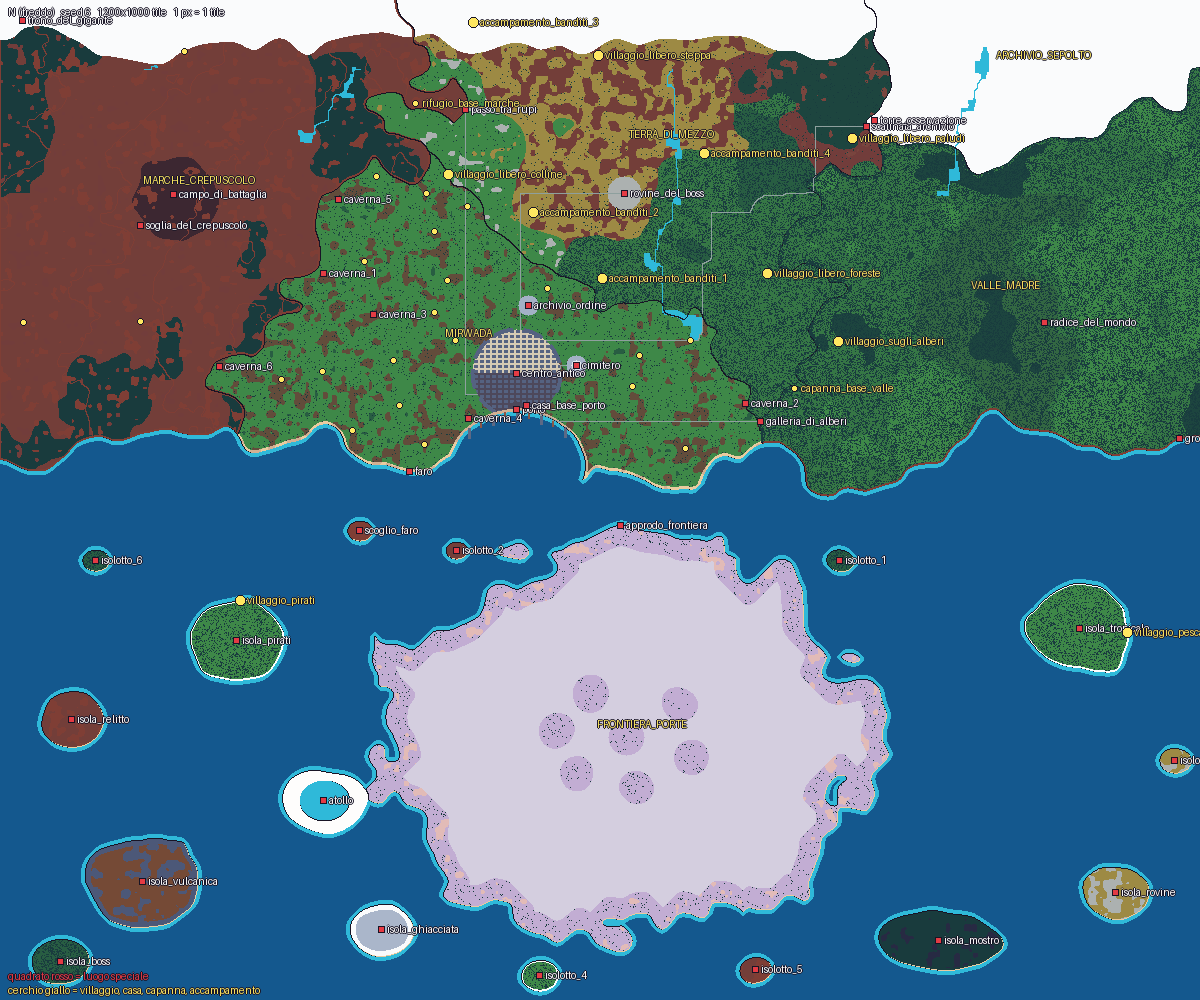
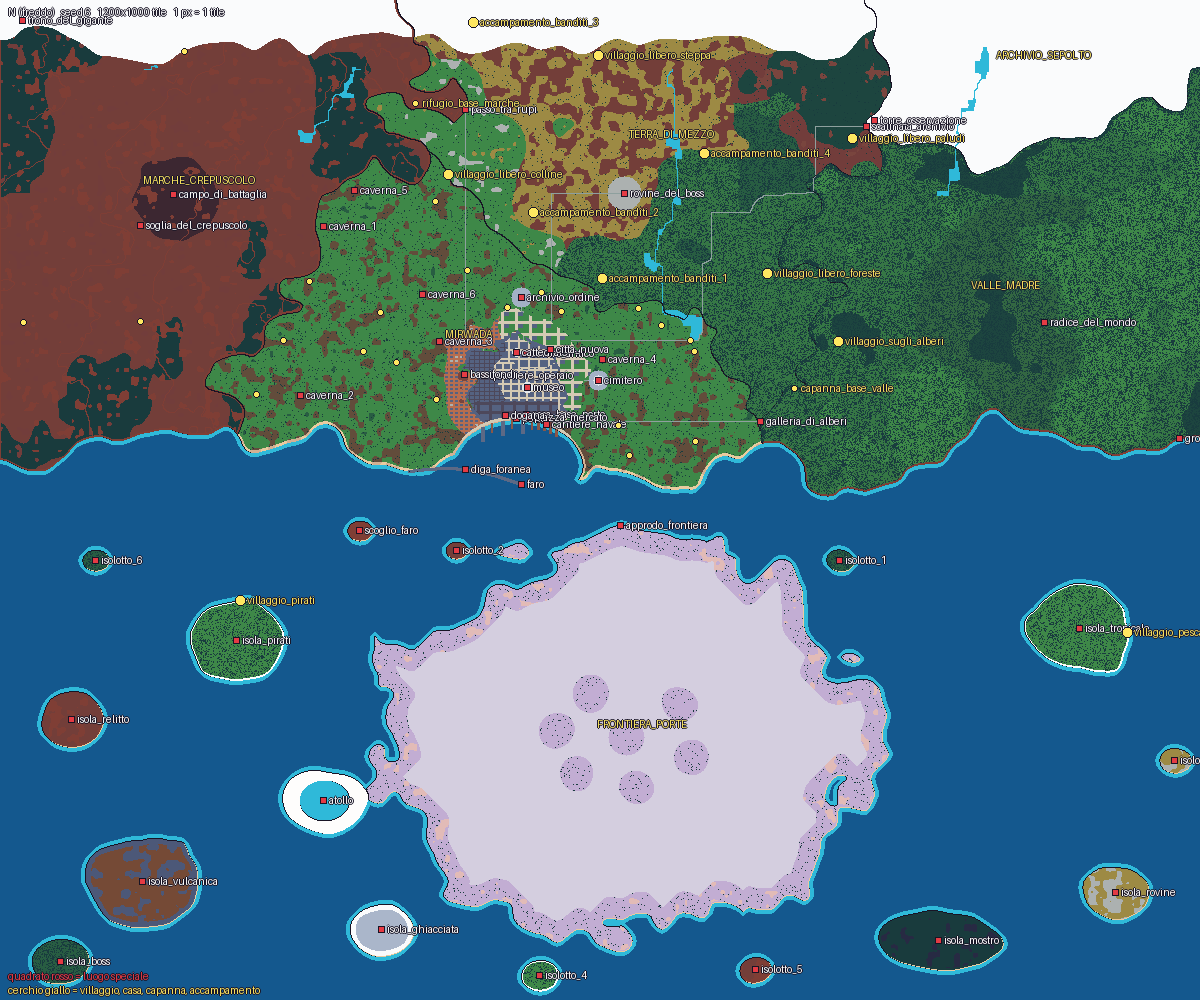
US-8B13b: Mirwada grande citta' portuale a quartieri + disposizione in layout_mondo.json
Claude-Session: https://claude.ai/code/session_014ycMSkFAn8ixUvbSfrqtAR

diff --git a/tools/art/build_world.py b/tools/art/build_world.py
@@ -45,25 +45,21 @@ W, H = 1200, 1000
 COSTA = 0.46                       # frazione di H dove finisce il continente
 HC = H * COSTA                     # altezza del continente
 K = 3.4                            # scala del paesaggio rispetto alla prima mappa di prova (320x220)
-KC = 2.0                           # scala della citta' (porto, mura, moli)
+KC = 2.0                           # scala di cimitero e monastero
 SCHERMATA = 20 * 11                # tile in una schermata a 64 px
 
 # Continente: centro di ogni zona in frazioni (x di W, y di HC). Ordine = indice nella mappa.
-TERRA = {"mirwada": (0.43, 0.80), "marche_crepuscolo": (0.15, 0.35), "archivio_sepolto": (0.85, 0.18),
-         "valle_madre": (0.87, 0.70), "terra_di_mezzo": (0.52, 0.42)}
-PESO = {"archivio_sepolto": 1.3, "terra_di_mezzo": 1.05, "marche_crepuscolo": 1.1}     # >1 zona piu' piccola, <1 piu' grande
-MEZZO = {"steppa": (0.50, 0.12), "colline": (0.34, 0.45), "foreste": (0.64, 0.60), "paludi": (0.71, 0.30)}
-# Isole: (id, cx, cy in frazioni di W e H, raggio in tile, profilo). Grandi, medie e piccole.
-ISOLE = [("frontiera_porte", 0.52, 0.74, 245, "frontiera"),
-         ("isola_vulcanica", 0.12, 0.88, 55, "vulcanica"), ("isola_tropicale", 0.90, 0.63, 52, "tropicale"),
-         ("isola_pirati", 0.20, 0.64, 48, "pirati"),
-         ("isola_relitto", 0.06, 0.72, 32, "relitto"), ("isola_rovine", 0.93, 0.89, 34, "rovine"),
-         ("isola_ghiacciata", 0.32, 0.93, 34, "ghiacciata"), ("isola_mostro", 0.78, 0.94, 36, "mostro"),
-         ("atollo", 0.27, 0.80, 40, "atollo"), ("isola_boss", 0.05, 0.96, 28, "boss"),
-         ("scoglio_faro", 0.30, 0.53, 12, "faro"),
-         ("isolotto_1", 0.70, 0.56, 14, "boschiva"), ("isolotto_2", 0.38, 0.55, 12, "relitto"),
-         ("isolotto_3", 0.98, 0.76, 16, "rovine"), ("isolotto_4", 0.45, 0.975, 18, "tropicale"),
-         ("isolotto_5", 0.63, 0.97, 15, "rocciosa"), ("isolotto_6", 0.08, 0.56, 13, "boschiva")]
+# Disposizione: tools/art/layout_mondo.json (la scrive anche l'artifact "tavolo tattico").
+LAYOUT_PATH = os.path.join(HERE, "layout_mondo.json")
+with open(LAYOUT_PATH, encoding="utf-8") as _f:
+    LAYOUT = json.load(_f)
+# Continente: centro di ogni zona in frazioni (x di W, y di HC). Ordine = indice nella mappa.
+TERRA = {n: (v["x"], v["y"]) for n, v in LAYOUT["terra"].items()}
+PESO = {n: v.get("peso", 1.0) for n, v in LAYOUT["terra"].items()}     # >1 zona piu' piccola, <1 piu' grande
+MEZZO = {n: (v["x"], v["y"]) for n, v in LAYOUT["mezzo"].items()}
+# Isole: (id, cx, cy in frazioni di W e H, raggio in tile, profilo).
+ISOLE = [(i["id"], i["x"], i["y"], i["r"], i["profilo"]) for i in LAYOUT["isole"]]
+RC = LAYOUT["citta"]["raggio"]      # raggio della citta' di Mirwada in tile (~55 schermate con 55)
 REGIONI = ["mare"] + list(TERRA) + [i[0] for i in ISOLE]
 SENZA_ALBERI = ["path", "sand", "stone", "lastre_chiare", "ciottoli_scuri", "molo_pietra", "pontile_legno",
                 "lastricato_antico", "marmo", "ghiaia", "ciottoli_spiaggia", "arenaria", "pietrisco", "terra_bruciata",
@@ -205,7 +201,7 @@ def genera(seed):
     costa = HC + (n1 - 0.5) * 34 * K + (n2 - 0.5) * 10 * K
     terra = yy < costa
     px = centro_di("mirwada")[0]
-    golfo = ((xx - px) / (30 * KC * 1.1)) ** 2 + ((yy - HC - 4) / (24 * KC * 1.1)) ** 2 < 1 + (n2 - 0.5) * 0.3
+    golfo = ((xx - px) / (RC * 1.15)) ** 2 + ((yy - HC - 4) / (RC * 0.8)) ** 2 < 1 + (n2 - 0.5) * 0.3
     terra &= ~golfo
     wx, wy = xx + (n2 - 0.5) * 60 * K, yy + (n1 - 0.5) * 60 * K
     dist = np.stack([np.hypot(wx - cx * W, wy - cy * HC) * PESO.get(n, 1.0) for n, (cx, cy) in TERRA.items()])
@@ -333,24 +329,94 @@ def genera(seed):
     g[muro_verde] = L["felci"]
     g[disco(*scalinata, 3) & ar] = L["ghiaccio"]
 
-    # --- Mirwada citta': porto sul golfo, centro antico, mura in rovina, moli e pontili ---
+    # --- Mirwada, grande citta' portuale a quartieri (risposte dell'utente 2026-10-14) ---
     py = int(np.nonzero(mw[:, px])[0].max()) - 1                       # riva nord del golfo (non la Frontiera!)
-    porto, centro = (px, py), (px, py - int(18 * KC))
-    citta = disco(*centro, 22 * KC) & mw & (dmare > 1)
-    isolati = ((xx % 6) < 4) & ((yy % 5) < 3)
-    strada = np.where(yy < centro[1], L["lastre_chiare"], L["ciottoli_scuri"])
-    g[citta] = np.where(isolati[citta], L["stone"], strada[citta])     # stone = sedime degli edifici (US-8B18)
-    mura = disco(*centro, 23 * KC) & ~disco(*centro, 21 * KC) & mw & (dmare > 1)
-    ang = np.degrees(np.arctan2(yy - centro[1], xx - centro[0])) % 360
+    porto, centro = (px, py), (px, py - int(RC * 0.6))
+    rq = fbm(W, H, 18, 2, seed + 50) - 0.5                                         # confini irregolari
+    dxc, dyc = xx - centro[0] + rq * RC * 0.5, yy - centro[1] + rq * RC * 0.4
+    dc = np.hypot(dxc, dyc)
+    base_citta = mw & (dmare > 1)
+    vecchia = base_citta & (dc < RC * 0.85)                                       # dentro le mura
+    fuori = base_citta & (dc >= RC * 0.9) & (dc < RC * 1.3)
+    Q = {"porto_commerciale": vecchia & (yy > py - RC * 0.32) & (np.abs(xx - px) < RC * 0.75),
+         "quartiere_operaio": vecchia & (dxc < -RC * 0.25),
+         "centro_antico": vecchia & (dyc < -RC * 0.35),
+         "bassifondi": fuori & (dxc < -RC * 0.3),
+         "citta_nuova": fuori & (dxc >= -RC * 0.3) & (yy < py - RC * 0.15)}
+    Q["quartiere_operaio"] &= ~Q["porto_commerciale"]
+    Q["centro_antico"] &= ~Q["quartiere_operaio"]
+    Q["centro_storico"] = vecchia & ~Q["porto_commerciale"] & ~Q["quartiere_operaio"] & ~Q["centro_antico"]
+    citta = np.zeros((H, W), bool)
+    for z in Q.values():
+        citta |= z
+
+    def isolati(z, passo_x, passo_y, larg, alt, strada, edificio=L["stone"]):
+        """Strade e sedime degli edifici (stone = edifici, US-8B18)."""
+        blocco = ((xx % passo_x) < larg) & ((yy % passo_y) < alt)
+        g[z] = np.where(blocco[z], edificio, strada)
+
+    isolati(Q["porto_commerciale"], 12, 9, 9, 6, L["ciottoli_scuri"])            # magazzini grandi
+    isolati(Q["quartiere_operaio"], 5, 4, 4, 3, L["ciottoli_scuri"])             # case strette e fabbriche
+    isolati(Q["centro_storico"], 8, 7, 6, 5, L["lastre_chiare"])                 # negozi, famiglie
+    isolati(Q["centro_antico"], 10, 9, 8, 7, L["lastre_chiare"])                 # palazzi
+    # bassifondi: terra e fango, baracche sparse e case crollate
+    z = Q["bassifondi"]
+    g[z] = np.where(d[z] < 0.25, L["mud"], L["dirt"])
+    g[z & ((xx % 5) < 3) & ((yy % 4) < 2) & (d > 0.3)] = L["stone"]
+    g[z & ((xx % 5) < 3) & ((yy % 4) < 2) & (d > 0.75)] = L["lastre_rovine"]
+    # citta' nuova: giardini, ville e viali larghi
+    z = Q["citta_nuova"]
+    g[z] = L["grass"]
+    g[z & ((xx % 14) < 5) & ((yy % 12) < 4)] = L["stone"]
+    g[z & (((xx % 14) >= 11) | ((yy % 12) >= 9))] = L["lastre_chiare"]
+    # piazze in marmo: centro storico (museo, mercanti) e centro antico (cattedrale)
+    piazza_storico = (centro[0] + int(RC * 0.2), centro[1] + int(RC * 0.05))
+    cattedrale = (centro[0], centro[1] - int(RC * 0.6))
+    g[disco(*piazza_storico, RC * 0.1) & citta] = L["marmo"]
+    g[disco(*cattedrale, RC * 0.08) & citta] = L["marmo"]
+    # mura in rovina tra la citta' vecchia e quella nuova
+    mura = base_citta & (dc >= RC * 0.85) & (dc < RC * 0.9)
+    ang = np.degrees(np.arctan2(dyc, dxc)) % 360
     g[mura & ((ang % 40) < 26)] = L["stone"]
-    g[disco(*porto, 4 * KC) & land] = L["ciottoli_scuri"]
-    g[riva & mw & ((np.hypot(xx - porto[0], yy - porto[1]) < 28 * KC) | (d > 0.62))] = L["ciottoli_spiaggia"]
-    for i, dx in enumerate(range(-48, 49, 12)):
-        ter, larg, lung = ("molo_pietra", 3, 10) if i % 2 == 0 else ("pontile_legno", 2, 7)
+    # lungomare: passeggiata lungo il golfo, con la piazza del mercato
+    lungomare = mw & (dmare >= 2) & (dmare <= 4) & (np.abs(xx - px) < RC * 1.0) & (yy > py - RC * 0.5)
+    g[lungomare] = L["lastre_chiare"]
+    citta |= lungomare
+    sx_l = np.nonzero(lungomare & (xx > px + RC * 0.1) & (xx < px + RC * 0.35))
+    piazza_mercato = (int(sx_l[1].mean()), int(sx_l[0].mean())) if len(sx_l[0]) else porto
+    g[disco(*piazza_mercato, 5) & mw] = L["marmo"]
+    g[riva & mw & ~citta & ((np.hypot(xx - porto[0], yy - porto[1]) < RC * 1.4) | (d > 0.62))] = L["ciottoli_spiaggia"]
+    # moli di pietra e pontili di legno lungo il porto commerciale
+    for i, dx in enumerate(range(-int(RC * 0.65), int(RC * 0.3), 10)):
+        ter, larg, lung = ("molo_pietra", 4, 14) if i % 2 == 0 else ("pontile_legno", 2, 9)
         x0 = porto[0] + dx
         y0 = int(np.nonzero(mw[:, x0])[0].max())
         g[y0:y0 + lung + 1, x0:x0 + larg] = L[ter]
         land[y0:y0 + lung + 1, x0:x0 + larg] = True
+    # cantiere navale sulla riva est del golfo: piazzale e scali di legno verso l'acqua
+    xs_c = px + int(RC * 0.55)
+    yc = int(np.nonzero(mw[:, xs_c])[0].max())
+    cantiere = (xs_c, yc)
+    g[disco(xs_c, yc - 4, 8) & mw] = L["pietrisco"]
+    for k_s in range(4):
+        x0 = xs_c - 9 + k_s * 6
+        y0 = int(np.nonzero(mw[:, x0])[0].max())
+        g[y0:y0 + 8, x0:x0 + 3] = L["pontile_legno"]
+        land[y0:y0 + 8, x0:x0 + 3] = True
+    # diga foranea: un lungo braccio di pietra dalla punta ovest del golfo, con il faro in fondo
+    punta = mw & riva & (xx < px - RC * 0.5) & (xx > px - RC * 2.0)              # punta ovest del golfo
+    ys_p, xs_p = np.nonzero(punta)
+    i_p = int(np.argmax(ys_p))
+    x_a, y_a = int(xs_p[i_p]), int(ys_p[i_p])
+    x_b, y_b = px + int(RC * 0.1), y_a + int(RC * 0.25)                          # testata, davanti al porto
+    n_p = max(abs(x_b - x_a), abs(y_b - y_a))
+    for t in range(n_p + 1):
+        xd = int(round(x_a + (x_b - x_a) * t / n_p))
+        yd = int(round(y_a + (y_b - y_a) * t / n_p - math.sin(math.pi * t / n_p) * RC * 0.15))
+        g[yd - 1:yd + 2, xd - 1:xd + 2] = L["molo_pietra"]
+        land[yd - 1:yd + 2, xd - 1:xd + 2] = True
+    faro_diga = (x_b, y_b)
+    diga_meta = ((x_a + x_b) // 2, (y_a + y_b) // 2 - int(RC * 0.15))
 
     # --- fiumi: dal nord verso il mare ---
     acqua = ~land
@@ -370,8 +436,8 @@ def genera(seed):
         acqua |= g == L["water"]
 
     # --- strade principali dal porto ---
-    archivio_ordine = (centro[0] + int(6 * KC), centro[1] - int(34 * KC))
-    cimitero = (centro[0] + int(30 * KC), centro[1] - int(4 * KC))
+    archivio_ordine = (centro[0] + int(RC * 0.1), centro[1] - int(RC * 1.6))
+    cimitero = (centro[0] + int(RC * 1.5), centro[1] - int(RC * 0.1))
     costo = np.where(np.isin(g, [L["stone"], L["arenaria"]]), 25.0, 1.0) + np.where(g == L["forest"], 4.0, 0.0)
     costo[acqua] = 40.0
     strade, ponti = [], []
@@ -397,8 +463,10 @@ def genera(seed):
 
     luoghi = {
         "porto": porto, "centro_antico": centro, "archivio_ordine": archivio_ordine, "cimitero": cimitero,
-        "faro": migliore(mw & riva & (xx < px - 20 * KC), yy),
+        "faro": faro_diga, "diga_foranea": diga_meta,
         "casa_base_porto": (porto[0] + 10, porto[1] - 4),
+        "cantiere_navale": cantiere, "piazza_mercato": piazza_mercato, "museo": piazza_storico,
+        "cattedrale": cattedrale, "dogana": (porto[0] - int(RC * 0.2), porto[1] - 3),
         "passo_tra_rupi": passo, "trono_del_gigante": migliore(mc, alt),
         "soglia_del_crepuscolo": migliore(mc & (alt > 0.45) & (alt < 0.65), d),
         "campo_di_battaglia": campo,
@@ -409,6 +477,10 @@ def genera(seed):
         "rovine_del_boss": rovine_boss,
         "approdo_frontiera": migliore(R["frontiera_porte"] & (dmare == 2), -yy),
     }
+    for q_nome in ("quartiere_operaio", "bassifondi", "citta_nuova", "centro_antico"):
+        ys_q, xs_q = np.nonzero(Q[q_nome])
+        if len(xs_q):
+            luoghi[q_nome] = (int(xs_q.mean()), int(ys_q.mean()))
     for rid, cx, cy, r, prof in ISOLE[1:]:
         ys_i, xs_i = np.nonzero(R[rid])
         if len(xs_i):
@@ -433,7 +505,7 @@ def genera(seed):
 
     fiume = acqua & land
     riva_fiume = ispessisci(fiume, 1) & ~fiume
-    lontano_citta = ~disco(*centro, 30 * KC)
+    lontano_citta = ~disco(*centro, RC * 1.4)
     campagna = mw & lontano_citta & ~riva & np.isin(g, [L["grass"], L["dry_grass"], L["filari"]])
     villaggi = {"villaggio_sugli_alberi": migliore(vl & vicino_a(galleria_alberi, 30 * K, 45 * K) & (g == L["felci"]), m),
                 "capanna_base_valle": migliore(vl & vicino_a(galleria_alberi, 8 * K, 14 * K) & ~riva, d),
@@ -459,6 +531,7 @@ def genera(seed):
         g[disco(x, y, r) & land & ~acqua] = L["path"] if r > 1 else L["dirt"]
 
     w = World(W, H, seed, g, reg, e, REGIONI, water_mask=acqua)
+    w.citta = citta                                   # per misurare la citta' e disegnarne l'anteprima
     w.roads = [[list(map(int, q)) for q in p] for p in strade]
     w.objects = ponti
 
@@ -490,7 +563,19 @@ def genera(seed):
                           "mat": "stone_light", "moss": False})
     w.objects.sort(key=lambda o: o["y"])
     sotto = genera_sottosuolo(seed, R, land, acqua, centro, rovine_boss, porto, rnd, rng, g)
+    applica_spostati(luoghi, villaggi, sotto)
     return w, luoghi, villaggi, sotto
+
+
+def applica_spostati(luoghi, villaggi, sotto):
+    """Le decisioni dell'utente (tavolo tattico) vincono sui suggerimenti: [x, y] sposta o aggiunge, null cancella."""
+    for chiave, dove in (("luoghi", luoghi), ("villaggi", villaggi), ("ingressi", sotto["ingressi"]),
+                         ("boss", sotto["boss"])):
+        for nome, pos in LAYOUT["spostati"].get(chiave, {}).items():
+            if pos is None:
+                dove.pop(nome, None)
+            else:
+                dove[nome] = (int(pos[0]), int(pos[1]))
 
 
 def genera_sottosuolo(seed, R, land, acqua, centro, rovine_boss, porto, rnd, rng, g_sopra):
@@ -677,6 +762,31 @@ def anteprima_sotto(w, sotto, k=1):
     return im
 
 
+CITTA_LUOGHI = ("porto", "museo", "piazza_mercato", "cattedrale", "dogana", "cantiere_navale", "faro",
+                "diga_foranea", "casa_base_porto", "quartiere_operaio", "bassifondi", "citta_nuova", "centro_antico")
+
+
+def anteprima_citta(w, luoghi, k=4):
+    """La citta' di Mirwada ingrandita, con i nomi dei quartieri e dei luoghi."""
+    ys, xs = np.nonzero(w.citta)
+    fy = luoghi.get("faro", (0, 0))[1]
+    x0, x1 = max(0, xs.min() - 25), min(W, xs.max() + 25)
+    y0, y1 = max(0, ys.min() - 15), min(H, max(ys.max(), fy) + 15)
+    col = colori_terreni()
+    img = col[w.ground[y0:y1, x0:x1]].copy()
+    im = Image.fromarray(img).resize(((x1 - x0) * k, (y1 - y0) * k), Image.NEAREST)
+    dr = ImageDraw.Draw(im)
+    font = ImageFont.load_default()
+    for nome in CITTA_LUOGHI:
+        if nome in luoghi:
+            x, y = luoghi[nome]
+            X, Y = (x - x0) * k, (y - y0) * k
+            dr.rectangle([X - 4, Y - 4, X + 4, Y + 4], fill=(228, 59, 68), outline=(24, 20, 37))
+            _scritta(dr, font, X + 8, Y - 6, nome)
+    _scritta(dr, font, 8, 6, f"MIRWADA   {int(w.citta.sum()) / SCHERMATA:.0f} schermate di citta'   1 tile = {k} px")
+    return im
+
+
 def misure(w, sotto):
     """Schermate (20x11 tile a 64 px) per zona: per capire quanto e' grande il mondo."""
     righe = []
@@ -720,6 +830,7 @@ def main():
         json.dump(j, f, separators=(",", ":"))
     anteprima(w, luoghi, villaggi).save(os.path.join(OUT, "mondo_prova.png"))
     anteprima_sotto(w, sotto).save(os.path.join(OUT, "sottosuolo_prova.png"))
+    anteprima_citta(w, luoghi).save(os.path.join(OUT, "mirwada_citta.png"))
     if not a.senza_ritagli:
         atl = {n: build_atlas(n, 32) for n in ORDER}
         for nome in ("porto", "passo_tra_rupi", "rovine_del_boss", "galleria_di_alberi", "approdo_frontiera",
@@ -736,6 +847,7 @@ def main():
     righe, tot, sotto_tot = misure(w, sotto)
     for n, v in righe:
         print(f"  {n:24s} {v:7.1f} schermate")
+    print(f"  citta' di Mirwada: {int(w.citta.sum()) / SCHERMATA:.0f} schermate")
     print(f"seed {a.seed}: superficie {tot:.0f} schermate, sottosuolo {sotto_tot:.0f}; {len(w.objects)} oggetti, "
           f"{len(luoghi)} luoghi, {len(villaggi)} villaggi, {len(sotto['ingressi'])} ingressi -> {OUT}")
 
